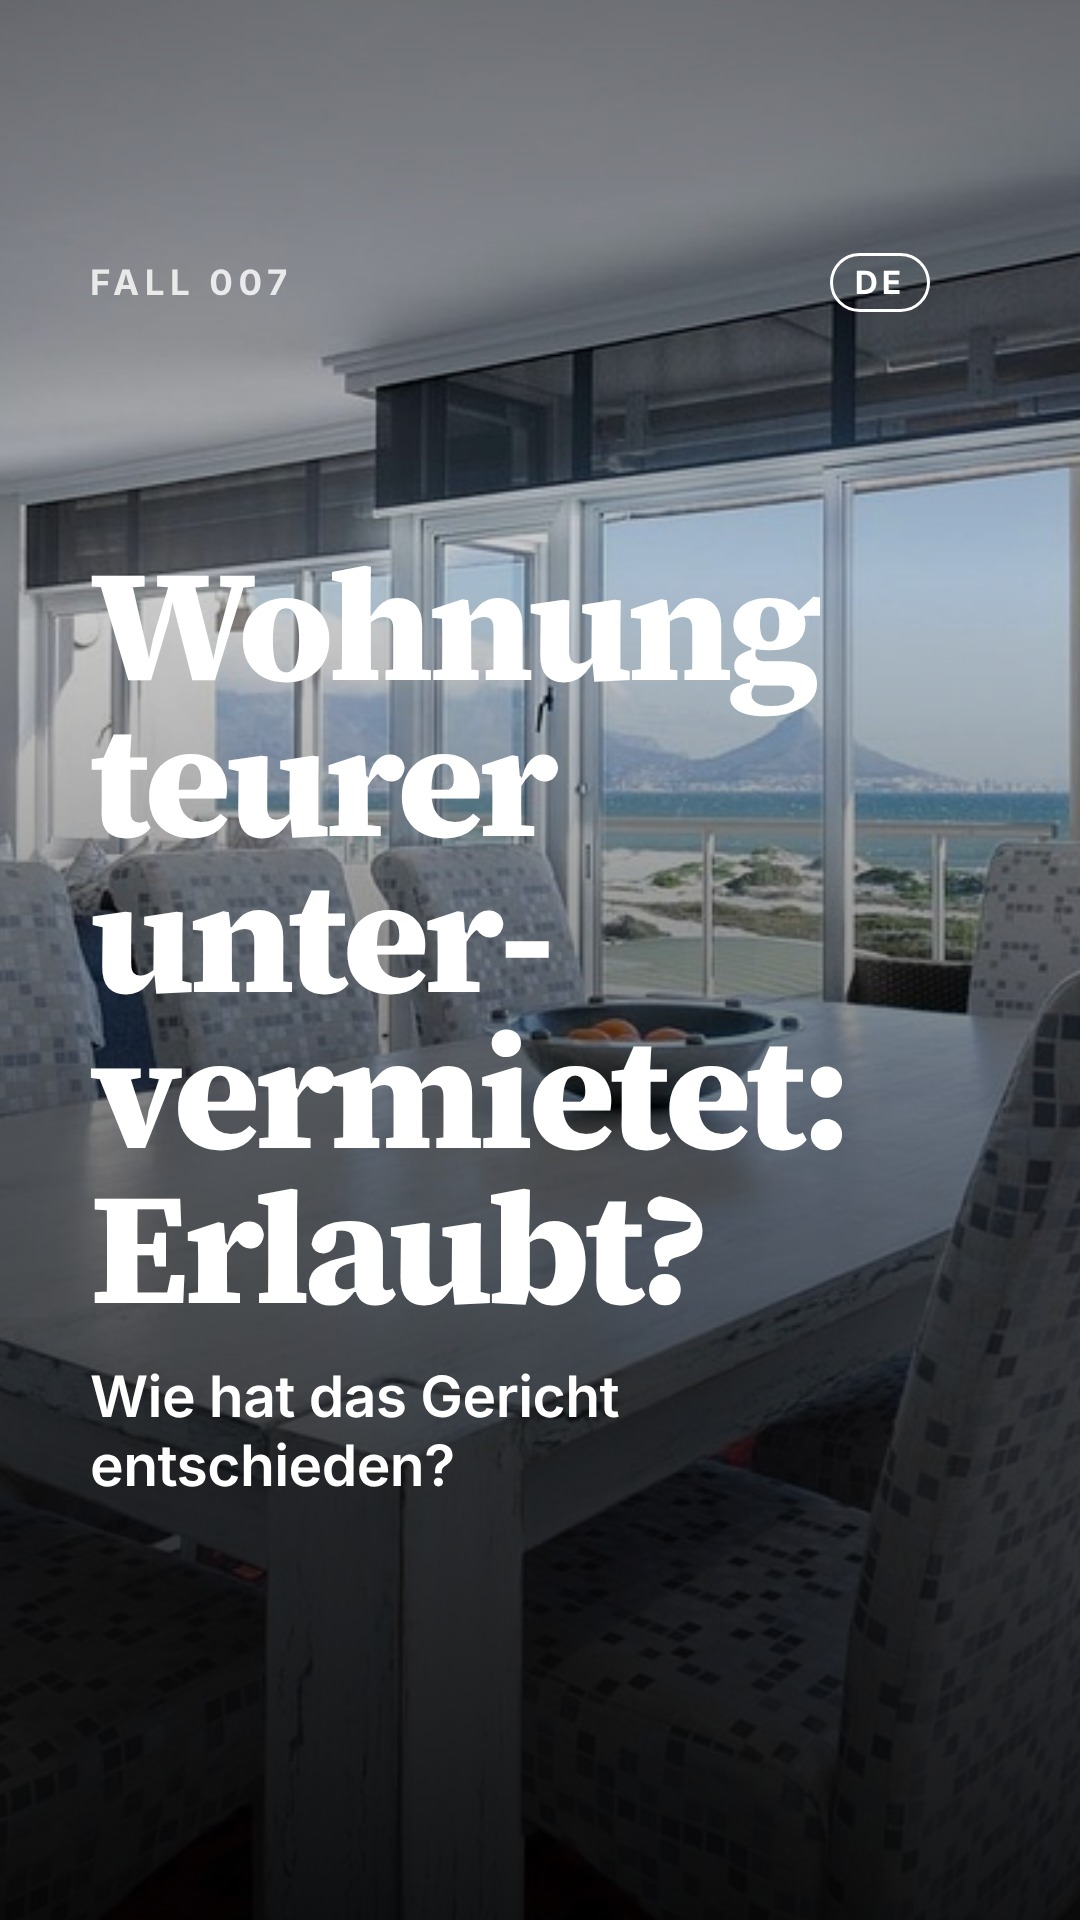
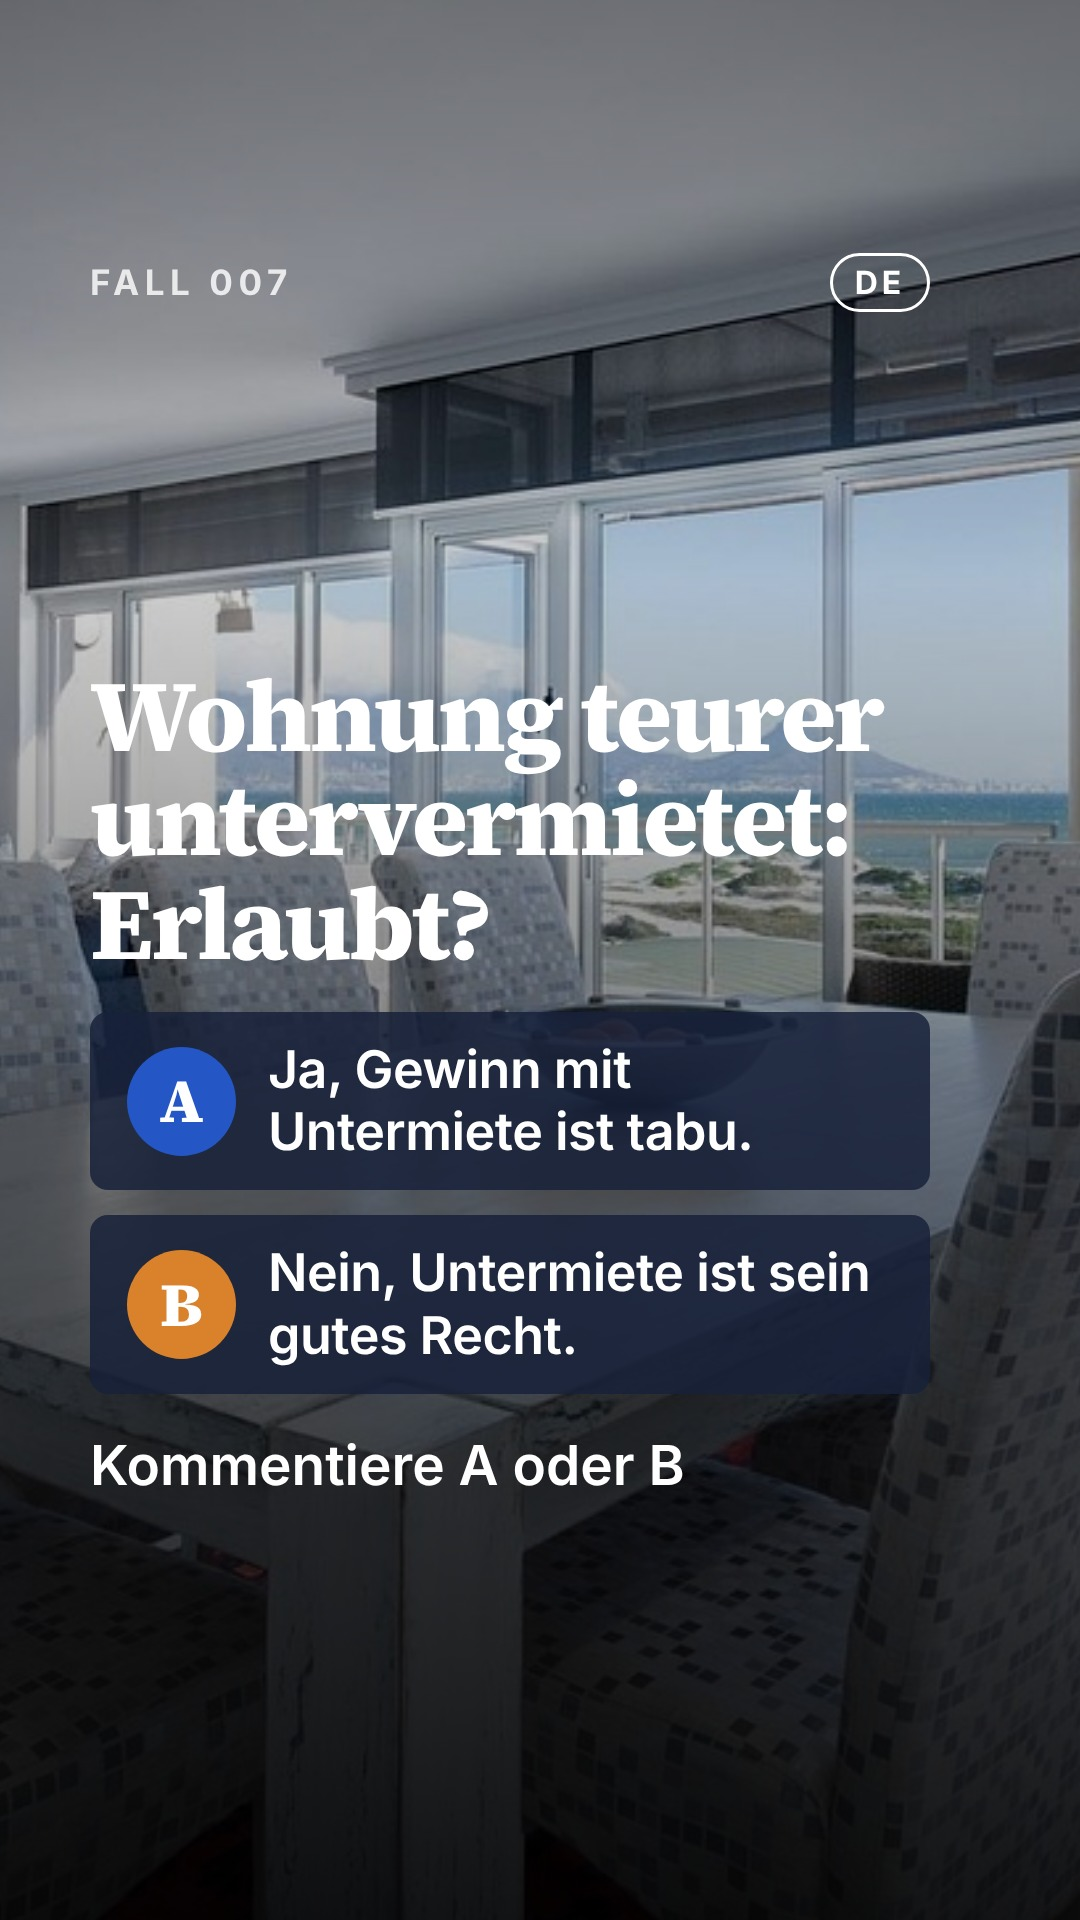
Reel neu: Frage + A/B ab dem ersten Bild, Aufruf zum Kommentieren (ab Fall 008)

Changed region(s): [[0.0611, 0.2812, 0.8861, 0.7812]]

diff --git a/pipeline/fall_post.py b/pipeline/fall_post.py
@@ -31,7 +31,7 @@ def bildunterschrift(f):
     frage = t["frage"][0].lower() + t["frage"][1:]
     tags = " ".join(h for h in t["hashtags"] if h != "#rechtgehabt")
     return (f"{kopf} – {frage}\nA: {t['optionen']['A']}\nB: {t['optionen']['B']}\n\n"
-            f"Schreib uns A oder B per DM – die Auflösung kommt sofort.\n{t['teilen']}\n\n"
+            f"Kommentiere A oder B – die Auflösung kommt sofort per DM.\n{t['teilen']}\n\n"
             f"Fall {f['nr']}: {t['quelle']} · {GILT[f['land']]} · Keine Rechtsberatung · Mit KI erstellt\n{tags}")
 
 
@@ -46,16 +46,21 @@ def post(f, datum):
             "wortmarke": False}
     frage = {"layout": "frage", "thema": "dunkel", "label": "Und das Gericht?", "badge": land, "frage": t["frage"],
              "optionen": opt, "wortmarke": False}
-    sv_dauer = 5.2 if sum(len(s) for s in t["sachverhalt"]) > 240 else 4.6
+    # Reel seit 20.11.2026: Frage + A/B ab dem ersten Bild, A/B bleiben sichtbar, Aufruf zum Kommentieren
+    einstieg = {"layout": "frage", "bild": bild, "bild_pos": pos, "position": "unten", "label": f"Fall {nr}",
+                "badge": land, "frage": t["titel"], "optionen": opt, "wortmarke": False,
+                "aufruf": "Kommentiere A oder B"}
+    sv_kurz = {"layout": "frage", "thema": "hell", "label": f"Fall {nr}", "badge": land,
+               "sachverhalt": t["sachverhalt"], "optionen": opt, "wortmarke": False}
+    sv_dauer = 5.0 if sum(len(s) for s in t["sachverhalt"]) > 240 else 4.4
     return {
         "datum": datum, "thema": f["thema"], "land": land, "quellen": f["quellen"],
         "reel": {"datei": "reel.mp4", "cover": "cover.jpg", "schleife": True, "szenen": [
-            {"dauer": 2.4, "folie": titel},
-            {"dauer": sv_dauer, "folie": fall},
-            {"dauer": 3.4, "folie": frage},
-            {"dauer": 3.4, "folie": {"layout": "aufruf", "thema": "dunkel", "frage": "Was meinst du?", "vor": "Schreib",
-                                     "stichwort": "A / B", "nach": "per DM – die Auflösung kommt sofort.",
-                                     "teilen": t["teilen"]}}]},
+            {"dauer": 3.0, "folie": einstieg},
+            {"dauer": sv_dauer, "folie": sv_kurz},
+            {"dauer": 2.6, "folie": {"layout": "aufruf", "thema": "dunkel", "frage": "Was meinst du?",
+                                     "vor": "Kommentiere", "stichwort": "A / B",
+                                     "nach": "Die Auflösung kommt sofort per DM.", "teilen": t["teilen"]}}]},
         "bilder": [
             {"datei": "dm_aufloesung.png", "format": "karte_lang", "folie": {
                 "layout": "aufloesung", "thema": "hell", "badge": land, "label": f"Auflösung · Fall {nr}",

diff --git a/pipeline/bausteine.py b/pipeline/bausteine.py
@@ -129,6 +129,7 @@ body{{font-family:'{tx}';-webkit-font-smoothing:antialiased;font-kerning:normal}
 .zahl{{font-size:{px(250)}px;line-height:.9;letter-spacing:-.045em;font-variant-numeric:tabular-nums}}
 .einheit{{font-size:{px(48)}px;font-weight:700;letter-spacing:-.01em;color:var(--ged)}}
 .vgl{{display:flex;gap:{px(24)}px}}
+.foto .opt{{background:{f['dunkel']}d9}}
 .vgl>div{{flex:1;background:var(--fl);border-radius:{r}px;padding:{px(22)}px {px(26)}px}}
 .vgl .vl{{font-size:{px(26)}px;font-weight:700;letter-spacing:.1em;text-transform:uppercase;color:var(--ged)}}
 .vgl .vw{{font-family:'{ti}';font-weight:800;font-size:{px(64)}px;letter-spacing:-.03em;margin-top:6px}}
